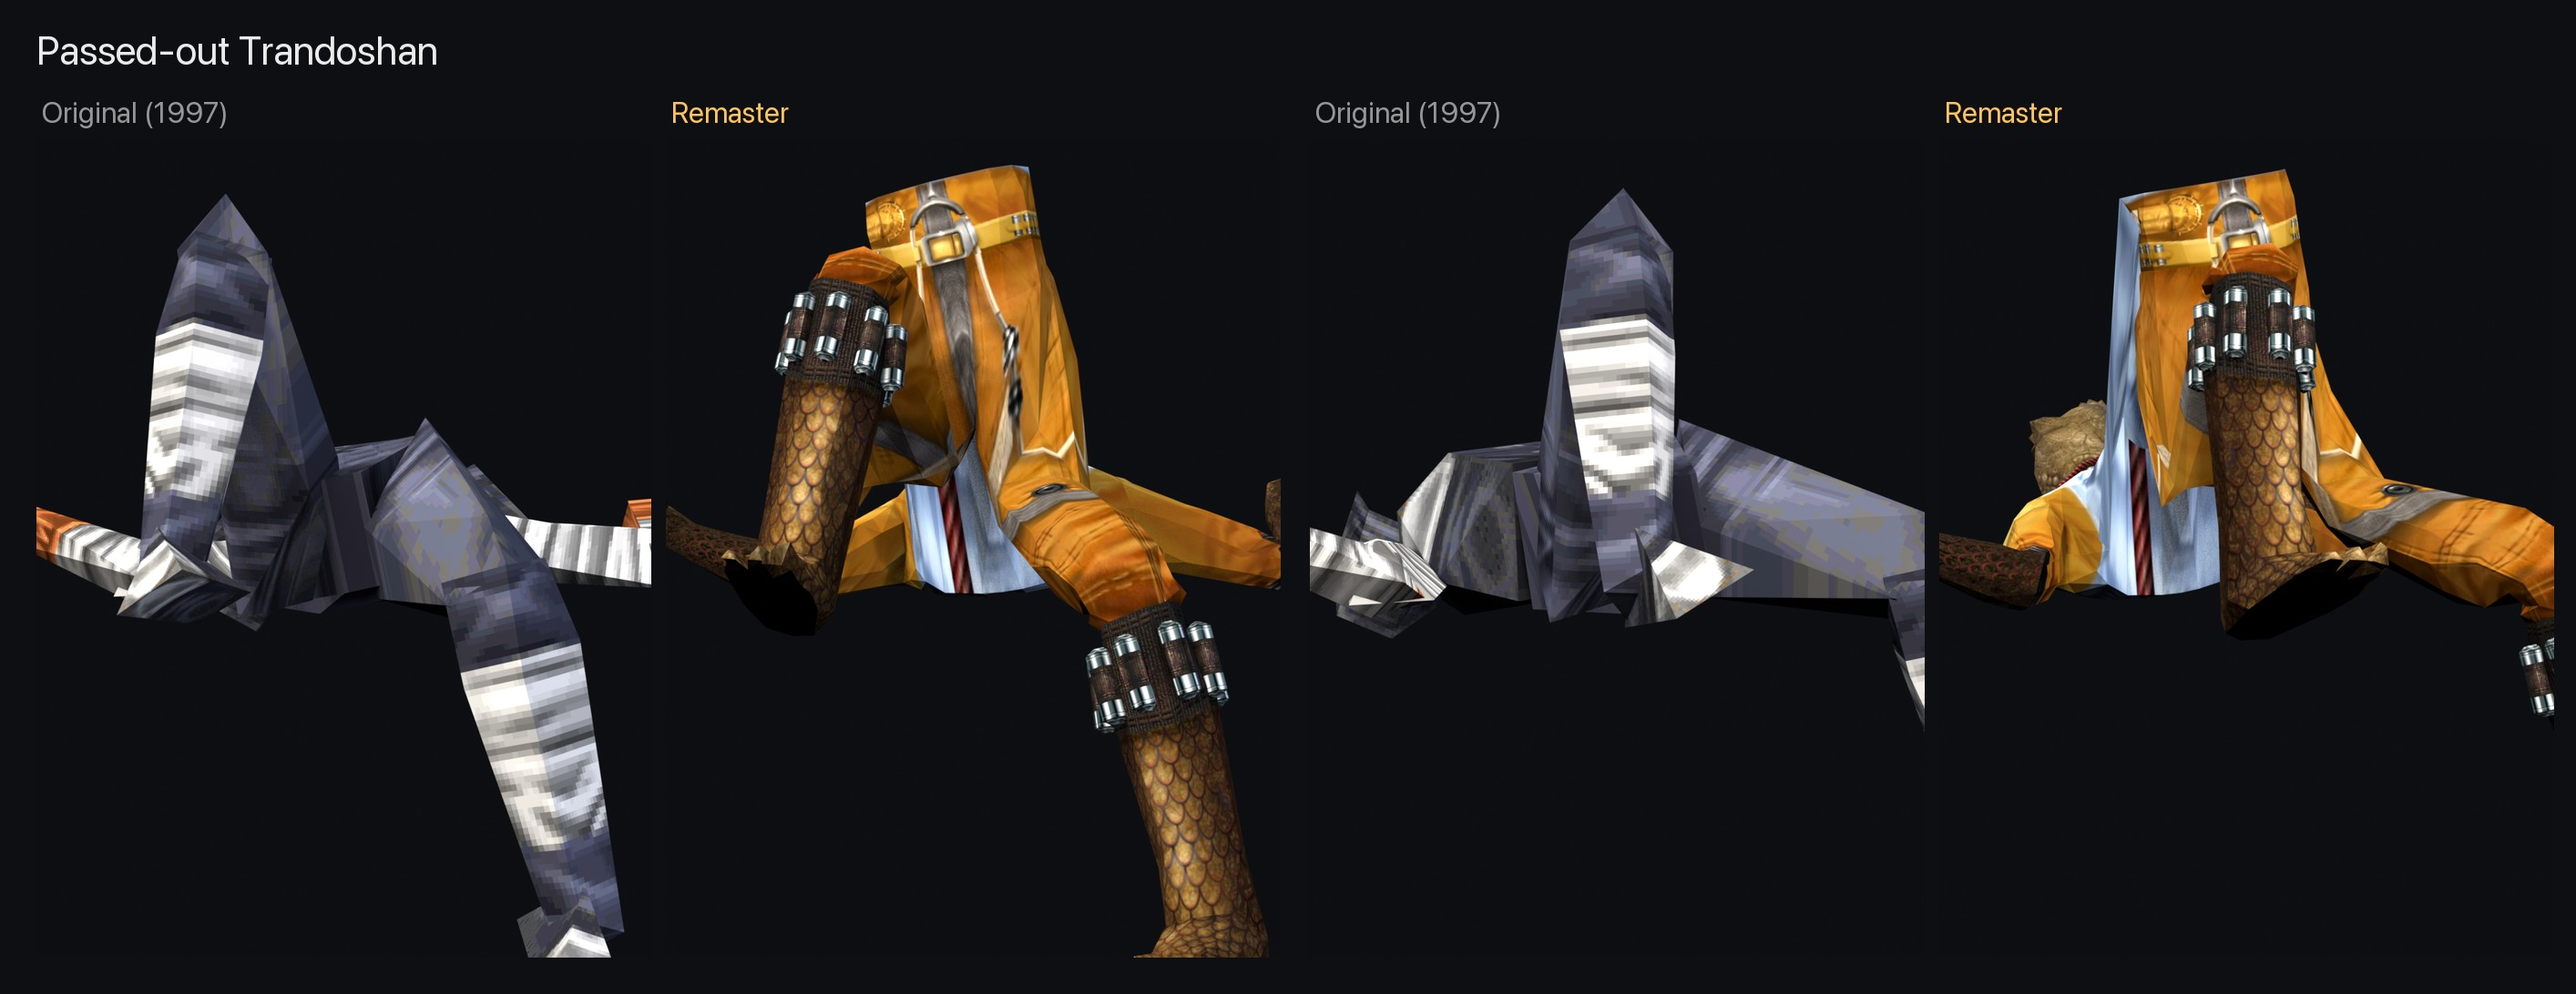
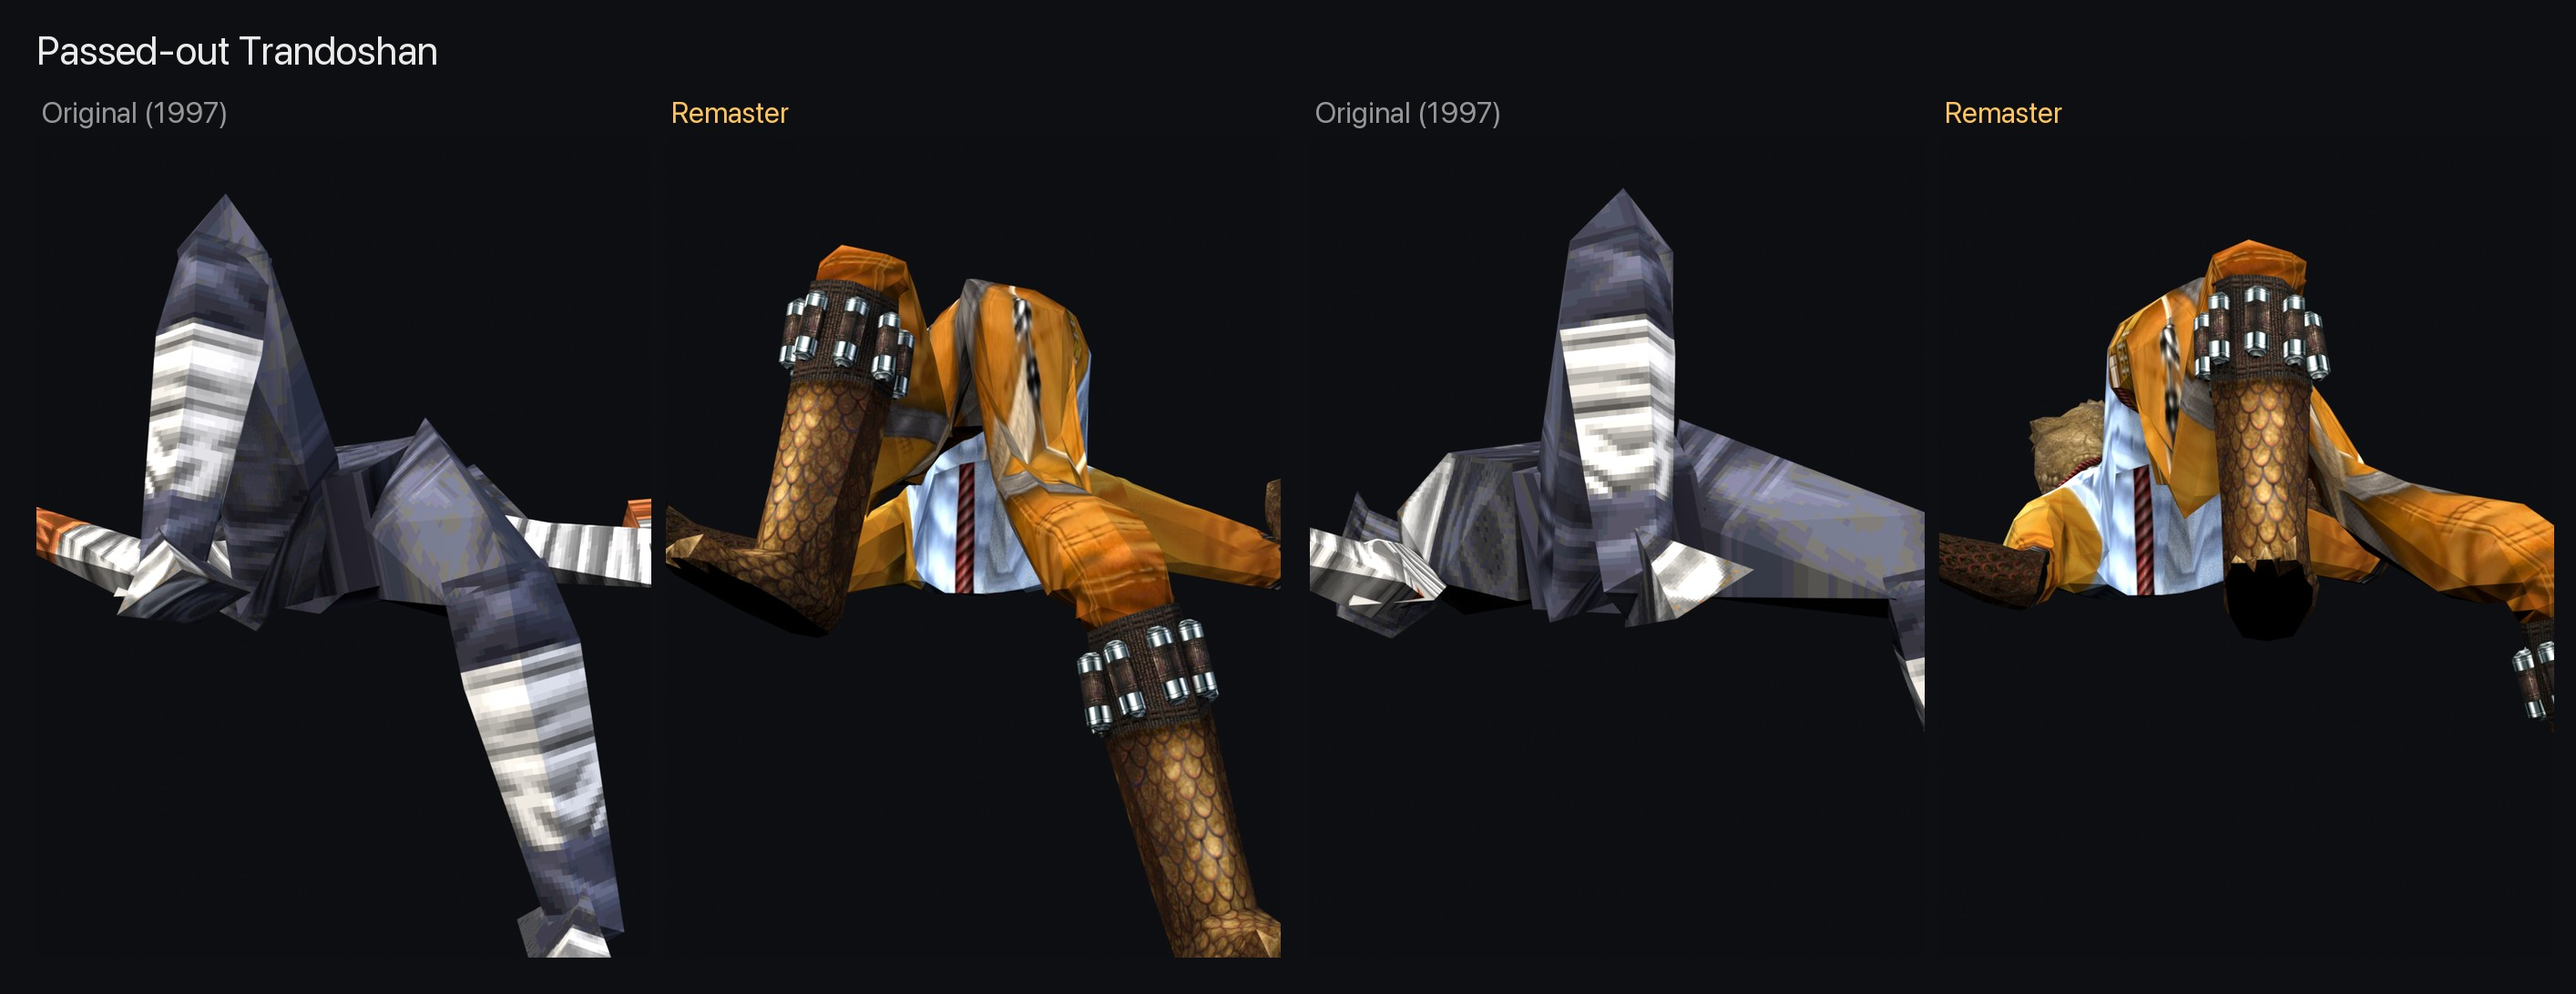
Cast: lying models align their hips along the spine (the bar drunk's belt stuck out like a drum)

Changed region(s): [[0.2489, 0.1557, 0.4979, 0.9652], [0.8091, 0.1557, 0.9958, 0.7161]]

diff --git a/tools/blender/ja_to_jk.py b/tools/blender/ja_to_jk.py
@@ -304,10 +304,21 @@ def main():
     # Posture first: hips, then the whole upper body (shoulder line, lean, twist), as blocks.
     W = lambda b: arm.matrix_world @ arm.pose.bones[b].head
     if {"lthigh", "rthigh", "torso"} <= native:
-        # base point straight below the hip midpoint: only the hip line's turn is matched
+        # Base point "below" the hip midpoint, so only the hip line's turn is matched. Below means
+        # world down for a standing model; for one lying down (the bar drunk) it means along the
+        # spine, away from the torso, or the hips stay upright and stick out of the body.
         drop = Vector((0, 0, 0.05))
+        jk_mid = (joint["lthigh"] + joint["rthigh"]) / 2
+        spine = jk_mid - joint["torso"]
+        jk_drop = drop
+        if spine.length > 1e-6 and spine.normalized().dot(Vector((0, 0, -1))) < 0.7:   # over ~45 degrees off vertical
+            jk_drop = -spine.normalized() * 0.05
+            ja_mid = (W("lfemurYZ") + W("rfemurYZ")) / 2
+            ja_spine = ja_mid - W("upper_lumbar")
+            drop = -ja_spine.normalized() * 0.05
+            log("lying pose: hips aligned along the spine")
         align_block(arm, "pelvis", W("lfemurYZ"), W("rfemurYZ"), (W("lfemurYZ") + W("rfemurYZ")) / 2 - drop,
-                    joint["lthigh"], joint["rthigh"], (joint["lthigh"] + joint["rthigh"]) / 2 - drop, move=False)
+                    joint["lthigh"], joint["rthigh"], jk_mid - jk_drop, move=False)
     if {"lshouldr", "rshouldr", "torso"} <= native:
         align_block(arm, "upper_lumbar", W("lhumerus"), W("rhumerus"), W("upper_lumbar"),
                     joint["lshouldr"], joint["rshouldr"], joint["torso"])

diff --git a/docs/DECISIONS.md b/docs/DECISIONS.md
@@ -676,3 +676,4 @@ Dom approved docs/stage2-atmosphere-plan.md. Branch `stage2-atmosphere`.
 
 **The drunk on the bar table** (Dom: "that block of polygons laying on the table"). It's the "tuskensoused" thing in Nar Shaddaa's spawn bar: despite the name, model `thout.3do` is a Trandoshan baked into a passed-out pose (same skeleton as `th`, no weapon), still the 1997 model under the remaster light. `tools/convert_cast.py` now takes a 4th field to fit onto another JK model than the entry's name, and has `thout` (Jedi Academy Trandoshan) and `thoutw` (Weequay) fitted onto the lying pose (joint error 0). Both installed and checked in game; the Trandoshan is the default (matches the level's other Trandoshans, reads better with the orange suit). docs/screenshots/stage4-bar-drunk.jpg, cast/thout.jpg, cast/thoutw.jpg. The converter needs the Blender profile with the Jedi Academy importer: `BLENDER_USER_RESOURCES=<scratchpad>/bluser` (rebuild it from USEFUL STUFF/blender-jediacademy-2.1.0 if the scratchpad is gone).
 - Dom: both drunks were "weirdly skinny with a round thing in the middle". The converter sized the character by the 1997 model's height, and lying down that's only its thickness (0.11 vs 0.18 standing): the character came out at about 0.6 x size and its limbs were stretched thin to reach the joints, so the table's round emblem showed through. `ja_to_jk.py --scale-ref <standing .3do>` (and a 5th field in the cast table) now sizes from the standing Trandoshan `th`; scale 0.018 -> 0.029. Both reconverted; they fill the table like the 1997 one.
+- Dom: "what his butt is doing ... a giant drum coming out of him". The converter's posture step lines the hips up using a point straight below them in world space: right for standing models, but for one lying on its back the hips stayed upright and the belt stuck out of the body. Now, when the JK spine is more than about 45 degrees off vertical, "below" is taken along each skeleton's spine (both JA and JK). Standing models are unaffected (the standing Trandoshan converts byte-identical). The Trandoshan is the keeper (Dom); the Weequay variant stays in the cast table.
